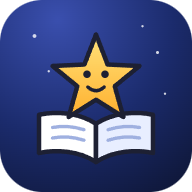
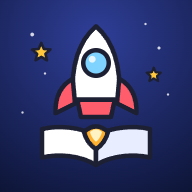
App: el icono pasa a ser el cohete que despega de un libro
Claude-Session: https://claude.ai/code/session_014KjCzHLJKKosXphZTrNuw3

diff --git a/ESTADO.md b/ESTADO.md
@@ -42,7 +42,7 @@ Se actualiza al cerrar cada sesión. Lo esencial manda sobre lo demás: lo extra
    - Al aprobarlo va al motor común: llega a todos los juegos, Inglés Unit 2 incluido (con el estilo de 5º).
    - Artefacto «Rediseño de Misión Estudio» (https://claude.ai/artifact/3bYCo7KGXvksweYVzc8QAa, 20-nov; elección en su almacén, colección `elecciones`, documento `direccion`): A · Atardecer, B · Cómic y C · Noche estrellada, cada una en menú, ruta, ejercicio y resultados, con versión de 5º y de 2º. Ronda 2 (20-nov, el padre): **se usan todos**, el juego cambia de estilo con la hora real (mañana de 7 a 15 de día, tarde de 15 a 20 al atardecer, noche de 20 a 7), igual que la luz de las escenas; se añade el bloque **D · Día** (claro, colores vivos, texto oscuro: cambia la regla de «fondo oscuro» solo para la mañana). Cada bloque tiene 3 variantes (A1–A3, B1–B3, C1–C3, D1–D3); Ronda 3 (20-nov, el padre): **no se elige una, se rota de un juego a otro**, para que el examen de Mates y el de Inglés de la semana siguiente no se vean iguales. Cada juego lleva su propio juego de estilos (uno de mañana, uno de tarde y uno de noche, `JUEGO.estilo`), fijo dentro del juego, y el siguiente juego toma el siguiente, sin repetir el del anterior. Por la mañana entran D1–D3 y B1–B3; por la tarde, A1–A3 y B1–B3; por la noche, C1–C3 y B1–B3 (el cómic entra en los tres momentos, decisión del padre aunque su fondo sea oscuro): seis juegos seguidos sin repetir. **En `motor-beta/` (20-nov):** los doce estilos, la elección por hora y por juego (`JUEGO.estilo`, `JUEGO.curso`), la versión de 2º y la luz de las escenas según la hora cuando el ejercicio no la fija; probado en los doce y en 2º y 5º a 390 px. Inglés Unit 2 no lo ve hasta pasar el motor a la normal (llevará el grupo 0: cielo azul, atardecer translúcido y constelación). El padre lo vio: «está perfecto». **Personajes guía (20-nov, en `motor-beta/`):** un personaje de las escenas con bocadillo, uno por juego (el del grupo de estilos o `JUEGO.guia`); saluda en el menú, anima al empezar la ruta y comenta los resultados de cada misión y del examen (salta si va bien). El ejercicio queda limpio. **En el motor normal (20-nov, aprobado por el padre):** Inglés Unit 2 ya cambia de estilo con la hora (grupo 0: D1 cielo azul, A1 atardecer translúcido, C1 constelación) y lleva el guía.
    - **Ronda 4 · movimiento (motion graphics), extra (20-nov, el padre):** animaciones en celebraciones, menú y boletín, mapa de la ruta y dentro del ejercicio; intensidad media (menos de un segundo, sin hacer esperar), más largas solo en la historia y las escenas; en 2º más alegres. En el artefacto del rediseño, sección «Que el juego se vea vivo»: tres opciones por momento (C1–C3, M1–M3, R1–R3, E1–E3, H1–H3) y cuatro extras (X1 transición entre pantallas, X2 XP y racha que suben, X3 cuenta atrás del examen, X4 el guía asoma); elección en el documento `movimiento`. **Elegido (20-nov):** C1 en secuencia (sube la nota y salen las estrellas; luego el guía habla, levanta los dos brazos y salta; después el sello con la nota en texto y al final el confeti), M1 con la nota que crece y su texto después, R1, E1 con el +10 de la E2 y la barra que crece con brillo, las tres H turnándose entre escenas, y los extras X2, X3 y X4. **En `motor-beta/` (20-nov):** todo hecho y verificado; el guía asoma en la ruta a mitad y en la última estación. **En el motor normal (20-nov, aprobado por el padre):** Inglés Unit 2 ya las tiene.
-   - **App, repaso y sonidos (20-nov, en `motor-beta/`):** el juego se instala como app (`manifest.webmanifest`, `sw.js`, `iconos/`; sin conexión: primero la red y, si no hay, lo guardado; la beta solo controla su carpeta) con botón «Instalar» o instrucciones para iPhone. Repaso pantalla a pantalla: el guía en la pantalla del nombre y en la portada del examen, reloj en rojo el último minuto, resultado del examen con la celebración en secuencia, fin de la ruta con el mapa completo y el examen destacado, ranking de la clase en tarjetas con tu fila. Sonidos suaves y cortos, sintetizados, encendidos con botón 🔊 en la cabecera (el arcade sigue con los suyos). **Pendiente del padre: verlo y aprobar pasarlo al normal.**
+   - **App, repaso y sonidos (20-nov, en `motor-beta/`):** el juego se instala como app (`manifest.webmanifest`, `sw.js`, `iconos/` con el icono L3 «Cohete del saber» que eligió el padre el 21-nov; sin conexión: primero la red y, si no hay, lo guardado; la beta solo controla su carpeta) con botón «Instalar» o instrucciones para iPhone. Repaso pantalla a pantalla: el guía en la pantalla del nombre y en la portada del examen, reloj en rojo el último minuto, resultado del examen con la celebración en secuencia, fin de la ruta con el mapa completo y el examen destacado, ranking de la clase en tarjetas con tu fila. Sonidos suaves y cortos, sintetizados, encendidos con botón 🔊 en la cabecera (el arcade sigue con los suyos). **Pendiente del padre: verlo y aprobar pasarlo al normal.**
 - (`ingles-u2/temario.json` se sacó del propio juego y el padre decidió no cotejarlo.)
 
 ## Pendiente del padre
